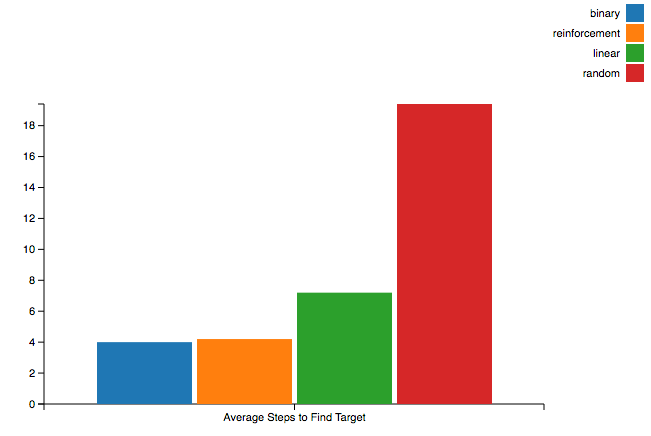
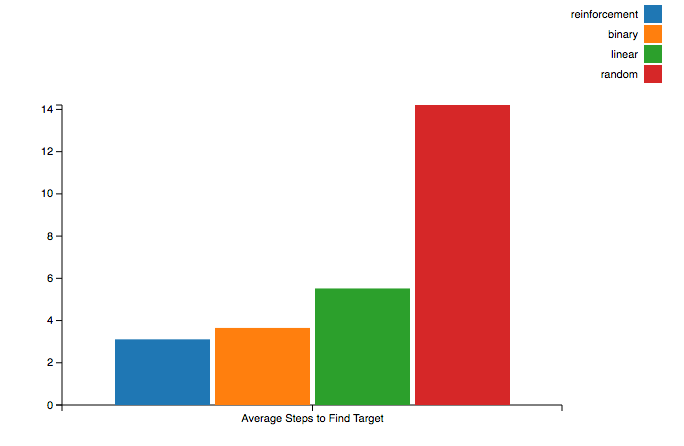
ai search with new feature (and presentation update)

Changed region(s): [[0.0307, 0.2087, 0.8295, 0.9839], [0.8295, 0.0, 1.0, 0.2087], [0.6144, 0.2087, 0.7373, 0.2385]]

diff --git a/search.py b/search.py
@@ -13,6 +13,7 @@ class Search:
     self._update_direction()
     self.floor = 0
     self.ceil = len(self.array)
+    self.high_target = True if (self.target > 1) else False
 
   def state(self):
     if (self.array[self.location] == self.target):
@@ -21,7 +22,8 @@ class Search:
       str(self.location),
       self.direction,
       str(self.floor),
-      str(self.ceil)
+      str(self.ceil),
+      str(self.high_target)
     ]
     return ':'.join(features)
 
@@ -128,6 +130,10 @@ class SearchSimulation:
     return search
 
   def _random_sorted_array(self, length):
-    random_ints = random.sample(range(0, 1000), length)
-    random_ints.sort()
-    return random_ints
+    random_values = []
+    for i in range(length):
+      value = round(random.expovariate(1), 5)
+      random_values.append(value)
+
+    random_values.sort()
+    return random_values

diff --git a/policy.py b/policy.py
@@ -12,7 +12,7 @@ class PolicyParser:
     state_values = np.zeros(self.state_count)
 
     GAMMA = 0.9
-    ITERATIONS = 50
+    ITERATIONS = 125
     for i in range(ITERATIONS):
       print "iteration: {0} / {1}".format(i + 1, ITERATIONS)
 

diff --git a/presentation.md b/presentation.md
@@ -378,33 +378,33 @@ class AISearch(Search):
 ### Comparison
 
 ```python
-
 binary_results = []
 linear_results = []
 random_results = []
 ai_results = []
 
 for i in range(10000):
-  # generate the array and target value
-  array = simulator._random_sorted_array(20)
+  # create array and target value
+  array = simulator._random_sorted_array(15)
   target = random.choice(array)
+
   # generate observation for search of each type
-  binary = simulator.observation(20, supplied_search = BinarySearch(array, target))
-  linear = simulator.observation(20, supplied_search = LinearSearch(array, target))
-  rando = simulator.observation(20, supplied_search = RandomSearch(array, target))
-  ai = simulator.observation(20, supplied_search = AISearch(array, target))
+  binary = simulator.observation(15, supplied_search = BinarySearch(array, target))
+  linear = simulator.observation(15, supplied_search = LinearSearch(array, target))
+  rando = simulator.observation(15, supplied_search = RandomSearch(array, target))
+  ai = simulator.observation(15, supplied_search = AISearch(array, target))
+
   # append result
   binary_results.append(len(binary['state_transitions']))
   linear_results.append(len(linear['state_transitions']))
   random_results.append(len(rando['state_transitions']))
   ai_results.append(len(ai['state_transitions']))
 
-# display results
-print "Average binary search length: {0}".format(np.mean(binary_results)) # 3.9984
-print "Average linear search length: {0}".format(np.mean(linear_results)) # 7.2012
-print "Average random search length: {0}".format(np.mean(random_results)) # 19.4402
-print "Average AI search length: {0}".format(np.mean(ai_results)) # 4.2267
-
+# display average results
+print "Average binary search length: {0}".format(np.mean(binary_results)) # 3.6469
+print "Average linear search length: {0}".format(np.mean(linear_results)) # 5.5242
+print "Average random search length: {0}".format(np.mean(random_results)) # 14.2132
+print "Average AI search length: {0}".format(np.mean(ai_results)) # 3.1095
 
 ```
 
